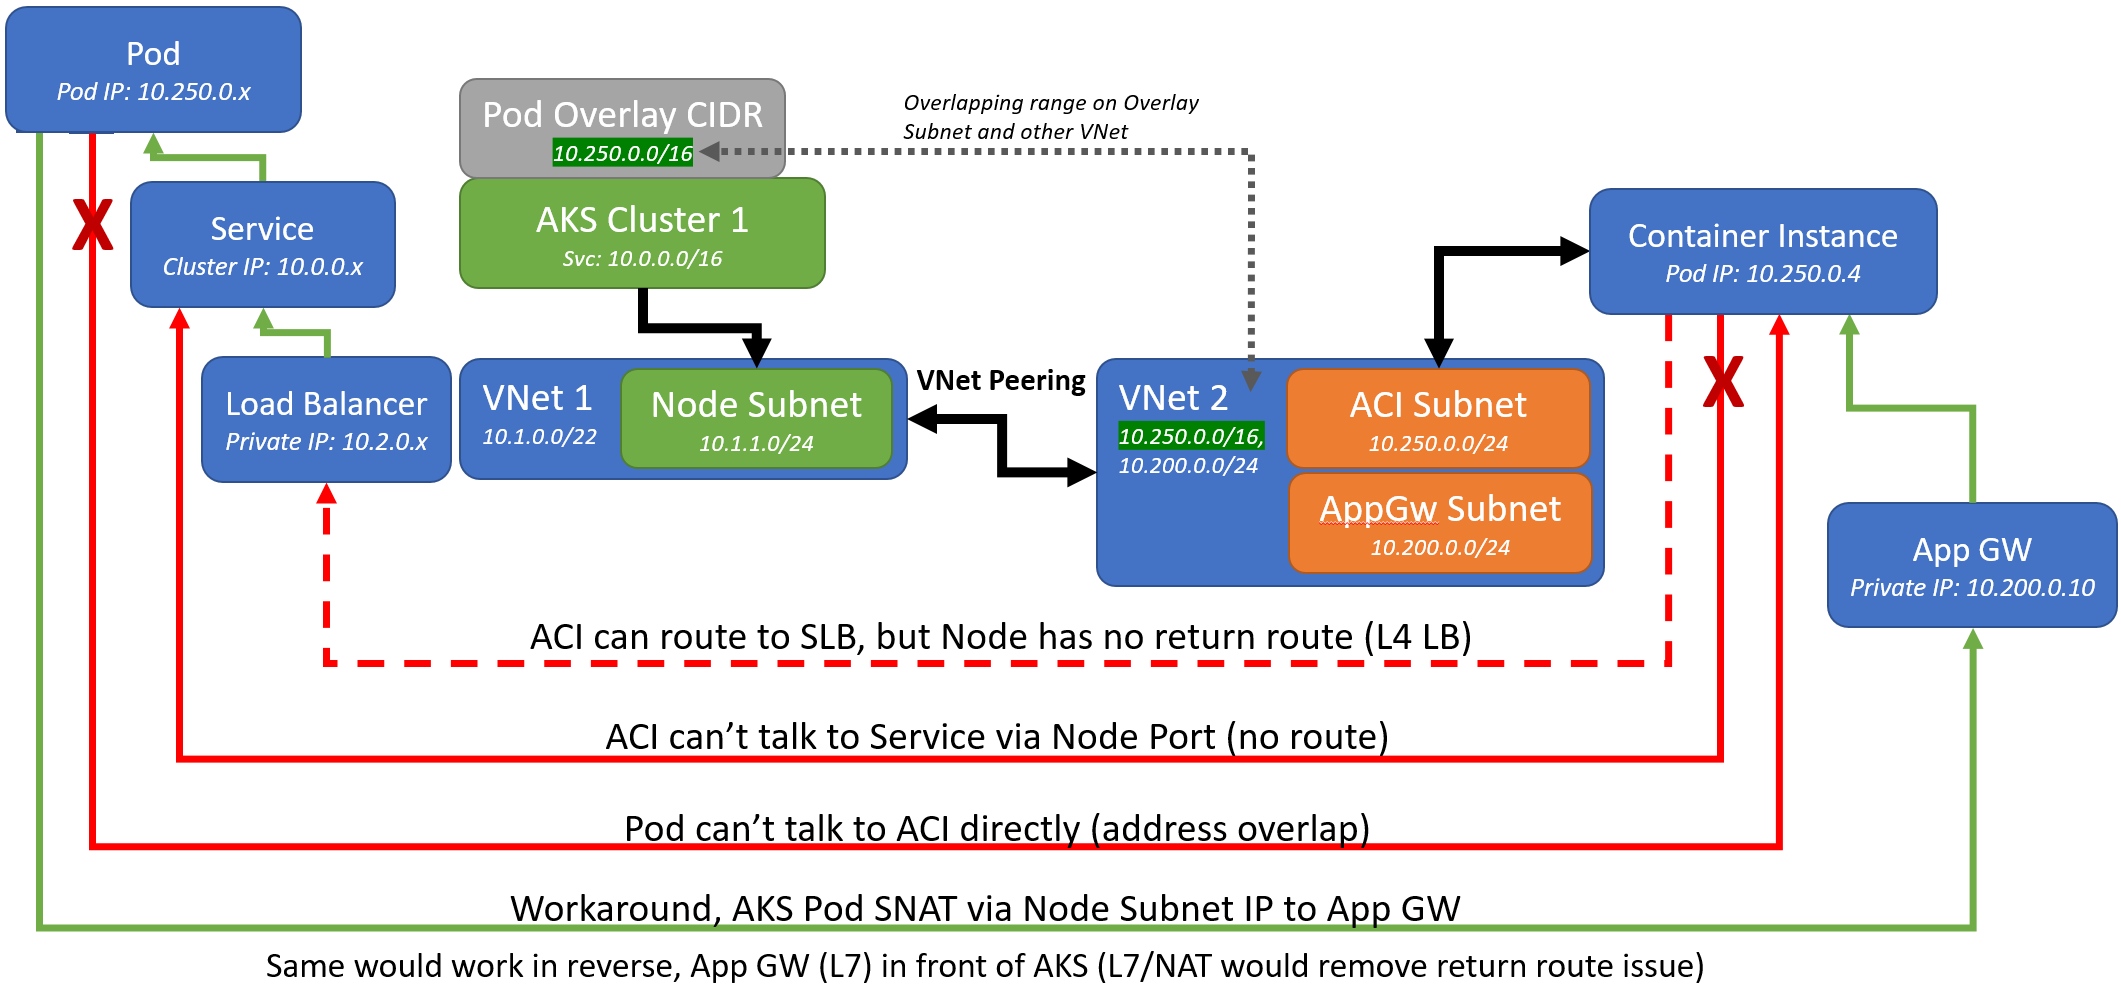
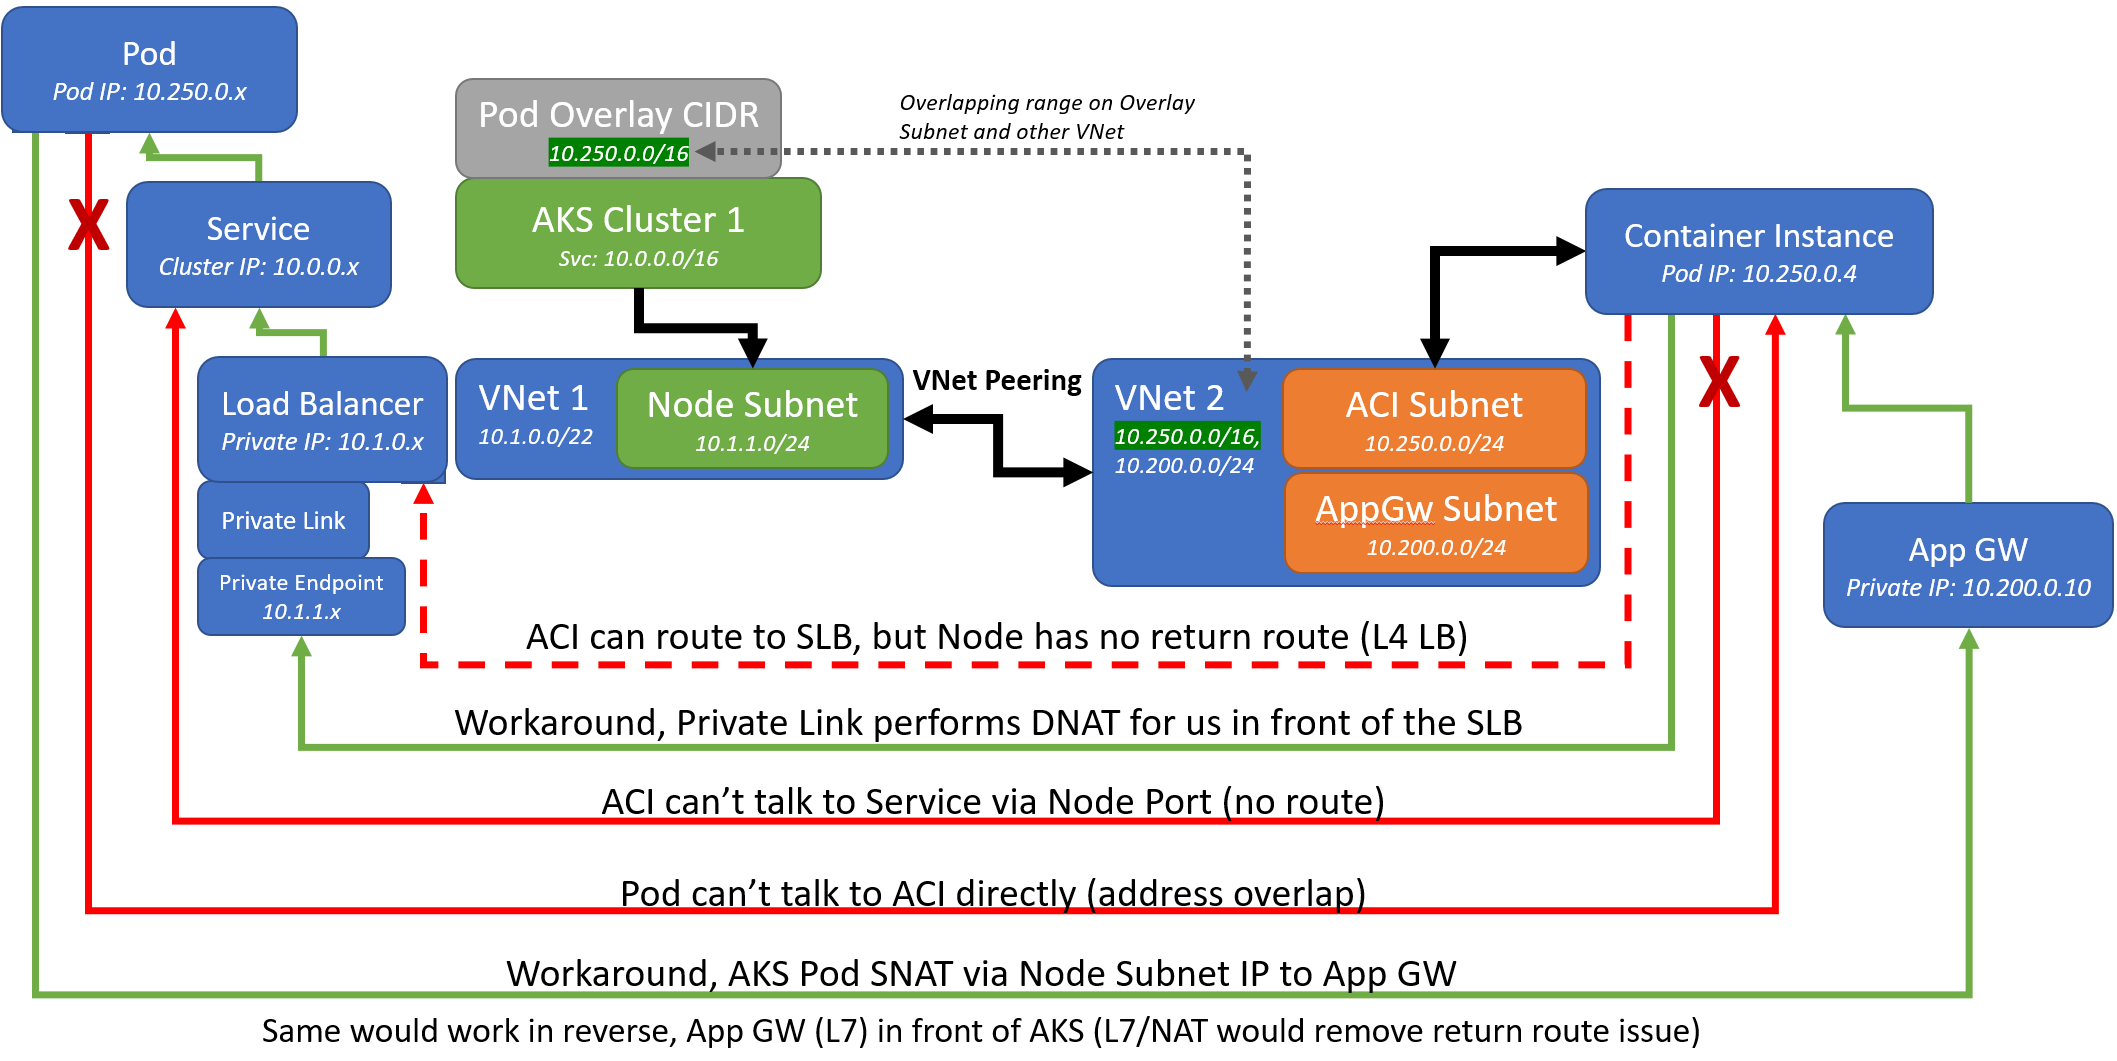
Added private endpoint

diff --git a/AKSPodSubnetOverlap/readme.md b/AKSPodSubnetOverlap/readme.md
@@ -6,3 +6,17 @@
 
 ## Description:
 ![Overview](_media/overview.png)
+
+## How to test green paths:
+### ACI to AKS Pod
+- Open the Private Endpoint and make note of the Private IP
+- Open the Application Gateway and navigate to it's public ip on port 80 (http)
+- Place the Private Endpoint's Private IP as a url into the UI pointing to the path `/ping`. Eg: `http://10.1.1.9/ping`
+
+### AKS Pod to ACI
+- Open the Application Gateway and make note of the Private IP
+- Open the AKS Cluster, navigate to 'Services', and open the External IP listed next to `pathtester-external` in a new tab
+- Place the App Gateway's Private IP as a url into the UI pointing to the path `/ping`. Eg: `http://10.200.0.20/ping`
+
+## Azure Resources:
+![Azure Resources](_media/resources.png)
